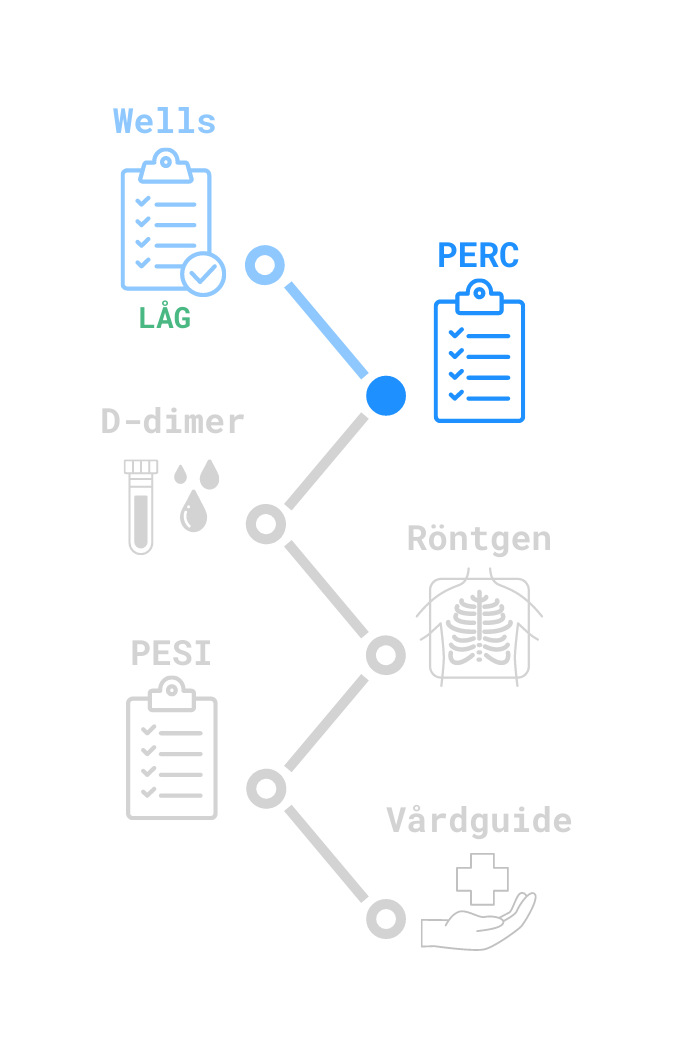
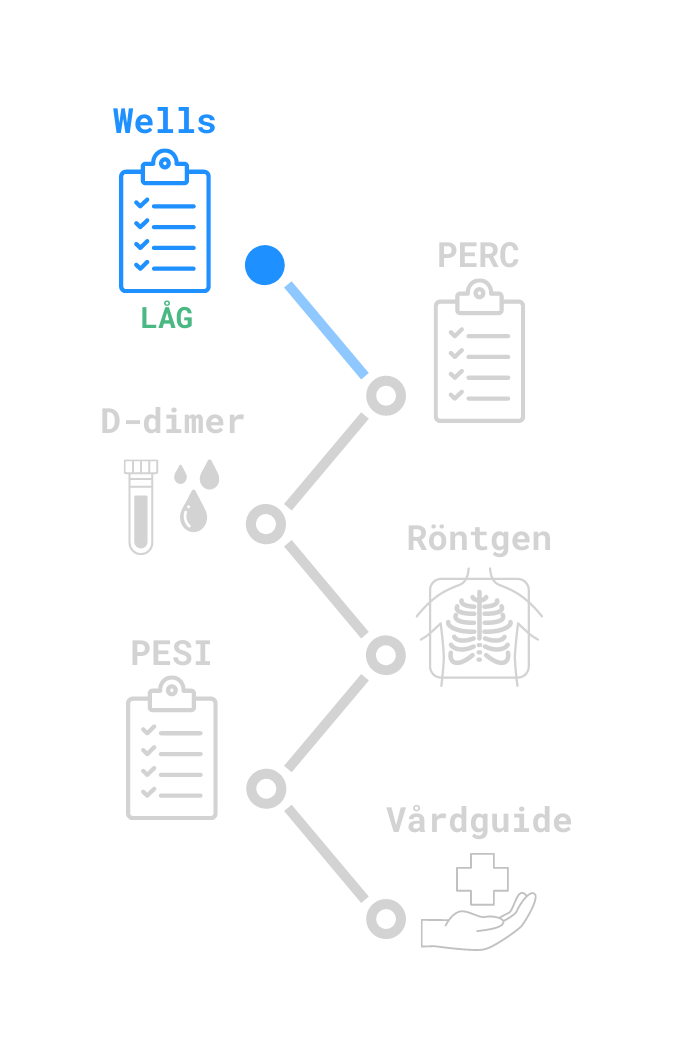
.

Changed region(s): [[0.1553, 0.0913, 0.4349, 0.3346], [0.5281, 0.2129, 0.7766, 0.4259]]

diff --git a/functions/f.py b/functions/f.py
@@ -139,8 +139,11 @@ def display_flow_v2():
     # if low
         img_path = "låg/låg"
         # check if PERC has been broken
-        if calc_score(dct_perc, name_perc) > 0:
-            img_path += "_broken"
+        if "perc_påbörjad" in st.session_state:
+            if calc_score(dct_perc, name_perc) > 0:
+                img_path += "_broken"
+            else:
+                img_path += "_unbroken"
         # check d-dimer status
         if st.session_state["Ddimer_status"] == "positive":
             img_path += "_positive"

diff --git a/pages/01_PERC.py b/pages/01_PERC.py
@@ -12,6 +12,8 @@ f.hide_padding_top()
 
 ########################### Initialize Variables ##############################
 
+st.session_state["perc_påbörjad"] = True
+
 ############################# Local Variables #################################
 
 dct_perc = {
